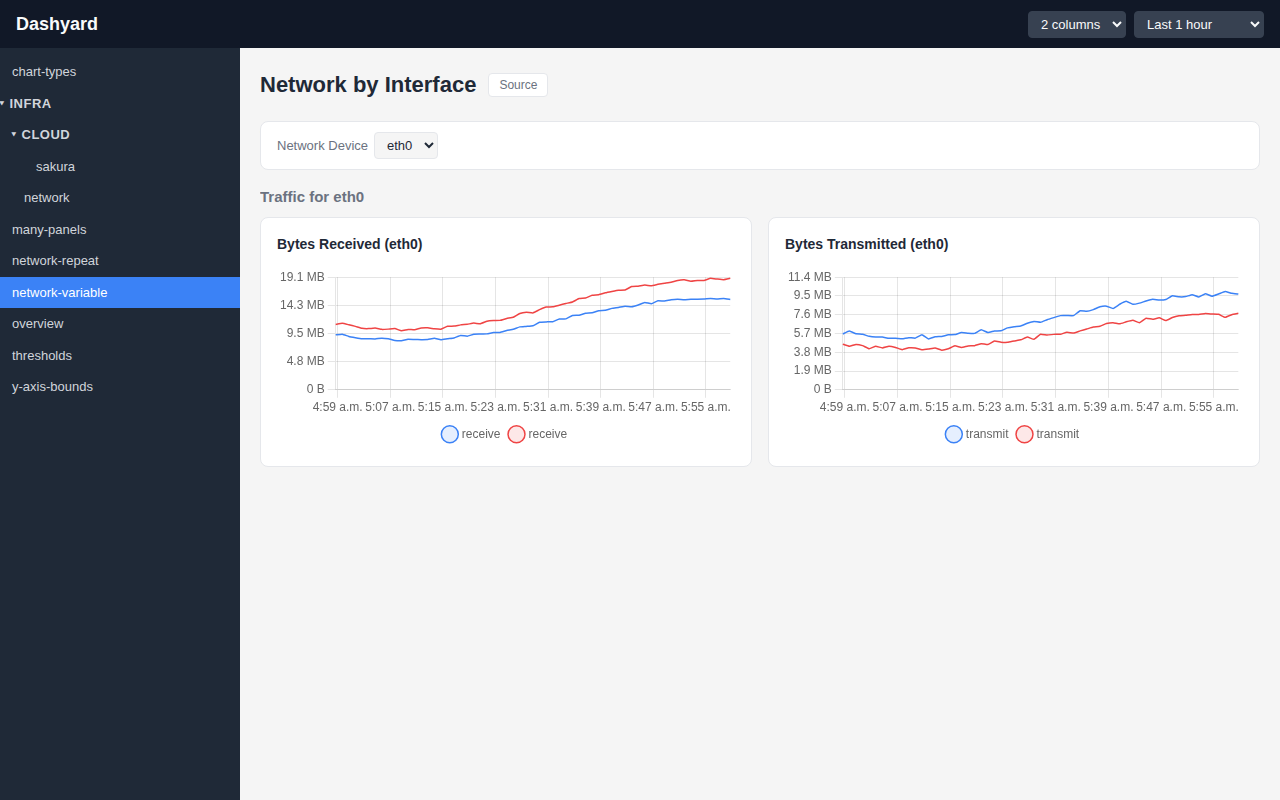
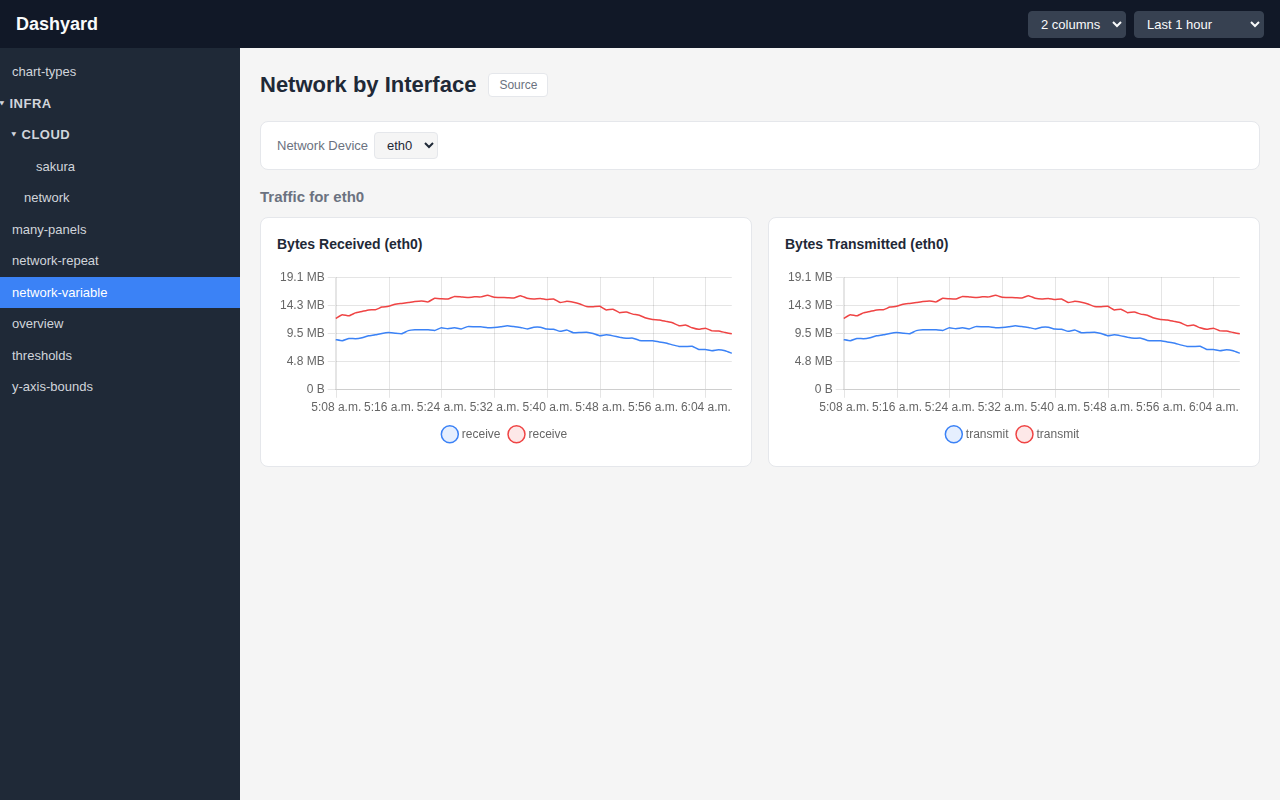
Make dummyprom output deterministic for stable screenshots
Replace math/rand with a pure hash-based noise function (splitmix64)
so that identical query + time range always produces the same data.
Use fixed base values instead of random ones for per-series params,
and compute relative time offsets in generateTimeSeries so the data
shape is independent of wall-clock time.

Update take-screenshots.ts to navigate via absolute time URLs
(?from=2025-01-01T00:00:00Z&to=2025-01-01T01:00:00Z) instead of
sidebar clicks with relative ranges, making axis labels and data
identical across runs.

Updated screenshots reflect the new deterministic output.

diff --git a/frontend/take-screenshots.ts b/frontend/take-screenshots.ts
@@ -12,6 +12,18 @@ const ROOT_DIR = path.resolve(__dirname, "..");
 const BASE_URL = process.env.BASE_URL || "http://localhost:5173/";
 const OUTPUT_DIR = process.env.OUTPUT_DIR || ROOT_DIR;
 
+// Fixed absolute time window for deterministic screenshots.
+// Combined with the deterministic dummyprom noise function, this ensures
+// identical chart data and axis labels across runs.
+const TIME_FROM = "2025-01-01T00:00:00Z";
+const TIME_TO = "2025-01-01T01:00:00Z";
+const TIME_QS = `from=${encodeURIComponent(TIME_FROM)}&to=${encodeURIComponent(TIME_TO)}`;
+
+function dashboardUrl(dashPath: string): string {
+  const base = BASE_URL.replace(/\/$/, "");
+  return `${base}/d/${dashPath}?${TIME_QS}`;
+}
+
 async function main() {
   fs.mkdirSync(path.join(OUTPUT_DIR, "docs"), { recursive: true });
 
@@ -45,12 +57,9 @@ async function main() {
       resp.ok(),
     { timeout: 10000 }
   );
-  await page.reload();
-  await page.waitForSelector(".sidebar", { timeout: 15000 });
 
-  // Navigate to overview dashboard
-  await page.locator(".sidebar-item", { hasText: "overview" }).click();
-  // Wait for graphs to render
+  // Navigate to overview dashboard with absolute time range
+  await page.goto(dashboardUrl("overview"));
   await page.waitForSelector(".graph-panel canvas", { timeout: 15000 });
   // Give Chart.js a moment to finish animations
   await page.waitForTimeout(2000);
@@ -70,73 +79,51 @@ async function main() {
   console.log("Saved: screenshot-dashboard.png");
 
   // Navigate to a dashboard with variables (network-variable)
-  const varItem = page.locator(".sidebar-item", {
-    hasText: "network-variable",
+  await page.goto(dashboardUrl("network-variable"));
+  await page.waitForSelector(".graph-panel canvas", { timeout: 15000 });
+  await page.waitForTimeout(2000);
+  await page.screenshot({
+    path: path.join(OUTPUT_DIR, "docs", "screenshot-variables.png"),
+    fullPage: false,
   });
-  if ((await varItem.count()) > 0) {
-    await varItem.click();
-    await page.waitForSelector(".graph-panel canvas", { timeout: 15000 });
-    await page.waitForTimeout(2000);
-    await page.screenshot({
-      path: path.join(OUTPUT_DIR, "docs", "screenshot-variables.png"),
-      fullPage: false,
-    });
-    console.log("Saved: screenshot-variables.png");
-  }
+  console.log("Saved: screenshot-variables.png");
 
   // Navigate to a dashboard with repeat rows (network-repeat)
-  const repeatItem = page.locator(".sidebar-item", {
-    hasText: "network-repeat",
+  await page.goto(dashboardUrl("network-repeat"));
+  await page.waitForSelector(".graph-panel canvas", { timeout: 15000 });
+  await page.waitForTimeout(2000);
+  await page.screenshot({
+    path: path.join(OUTPUT_DIR, "docs", "screenshot-repeat.png"),
+    fullPage: true,
   });
-  if ((await repeatItem.count()) > 0) {
-    await repeatItem.click();
-    await page.waitForSelector(".graph-panel canvas", { timeout: 15000 });
-    await page.waitForTimeout(2000);
-    await page.screenshot({
-      path: path.join(OUTPUT_DIR, "docs", "screenshot-repeat.png"),
-      fullPage: true,
-    });
-    console.log("Saved: screenshot-repeat.png");
-  }
+  console.log("Saved: screenshot-repeat.png");
 
   // Navigate to chart-types dashboard
-  const chartItem = page.locator(".sidebar-item", {
-    hasText: "chart-types",
+  await page.goto(dashboardUrl("chart-types"));
+  await page.waitForSelector(".panel", { timeout: 15000 });
+  await page.waitForTimeout(2000);
+  await page.screenshot({
+    path: path.join(OUTPUT_DIR, "docs", "screenshot-chart-types.png"),
+    fullPage: true,
   });
-  if ((await chartItem.count()) > 0) {
-    await chartItem.click();
-    await page.waitForSelector(".panel", { timeout: 15000 });
-    await page.waitForTimeout(2000);
-    await page.screenshot({
-      path: path.join(OUTPUT_DIR, "docs", "screenshot-chart-types.png"),
-      fullPage: true,
-    });
-    console.log("Saved: screenshot-chart-types.png");
-  }
+  console.log("Saved: screenshot-chart-types.png");
 
   // Navigate to thresholds dashboard using a fresh page so Chart.js
   // annotation plugin initialises cleanly (accumulated chart instances from
   // earlier dashboards can interfere with annotation rendering).
   {
     const freshPage = await context.newPage();
-    await freshPage.goto(BASE_URL);
-    await freshPage.waitForSelector(".sidebar", { timeout: 15000 });
-    const thresholdsItem = freshPage.locator(".sidebar-item", {
-      hasText: "thresholds",
+    await freshPage.goto(dashboardUrl("thresholds"));
+    await freshPage.waitForSelector(".graph-panel canvas", {
+      timeout: 15000,
     });
-    if ((await thresholdsItem.count()) > 0) {
-      await thresholdsItem.click();
-      await freshPage.waitForSelector(".graph-panel canvas", {
-        timeout: 15000,
-      });
-      // Annotation plugin needs extra time to render after async data loads
-      await freshPage.waitForTimeout(10000);
-      await freshPage.screenshot({
-        path: path.join(OUTPUT_DIR, "docs", "screenshot-thresholds.png"),
-        fullPage: true,
-      });
-      console.log("Saved: screenshot-thresholds.png");
-    }
+    // Annotation plugin needs extra time to render after async data loads
+    await freshPage.waitForTimeout(10000);
+    await freshPage.screenshot({
+      path: path.join(OUTPUT_DIR, "docs", "screenshot-thresholds.png"),
+      fullPage: true,
+    });
+    console.log("Saved: screenshot-thresholds.png");
     await freshPage.close();
   }
 

diff --git a/cmd/dummyprom/main.go b/cmd/dummyprom/main.go
@@ -8,7 +8,6 @@ import (
 	"fmt"
 	"log/slog"
 	"math"
-	"math/rand"
 	"net/http"
 	"os"
 	"strconv"
@@ -112,15 +111,32 @@ func generateData(query string, start, end, step float64) []promResult {
 	}
 }
 
+// noise returns a deterministic pseudo-random value in [0,1) derived from the
+// timestamp t and an optional seed. Using a pure function of t means the same
+// query with the same time range always produces identical data, which makes
+// screenshots stable and easier to review.
+func noise(t float64, seed uint64) float64 {
+	// Mix timestamp bits with the seed using a simple hash (splitmix64-style).
+	x := uint64(t*1000) + seed
+	x ^= x >> 30
+	x *= 0xbf58476d1ce4e5b9
+	x ^= x >> 27
+	x *= 0x94d049bb133111eb
+	x ^= x >> 31
+	return float64(x>>11) / float64(1<<53) // [0, 1)
+}
+
 func generateCPUUtilization(start, end, step float64) []promResult {
 	cpus := []string{"cpu0", "cpu1", "cpu2", "cpu3"}
+	baseVals := []float64{20.0, 25.0, 30.0, 18.0}
 	var results []promResult
-	for _, cpu := range cpus {
-		baseVal := 15.0 + rand.Float64()*20
+	for i, cpu := range cpus {
+		seed := uint64(i)
+		base := baseVals[i]
 		values := generateTimeSeries(start, end, step, func(t float64) float64 {
 			// Simulate CPU with some periodic pattern + noise
 			return math.Max(0, math.Min(100,
-				baseVal+15*math.Sin(t/600)+rand.Float64()*10-5))
+				base+15*math.Sin(t/600)+noise(t, seed)*10-5))
 		})
 		results = append(results, promResult{
 			Metric: map[string]string{
@@ -135,7 +151,7 @@ func generateCPUUtilization(start, end, step float64) []promResult {
 
 func generateLoadAverage(start, end, step float64) []promResult {
 	values := generateTimeSeries(start, end, step, func(t float64) float64 {
-		return math.Max(0, 1.5+0.8*math.Sin(t/1200)+rand.Float64()*0.3)
+		return math.Max(0, 1.5+0.8*math.Sin(t/1200)+noise(t, 100)*0.3)
 	})
 	return []promResult{
 		{
@@ -150,7 +166,7 @@ func generateLoadAverage(start, end, step float64) []promResult {
 func generateMemoryUsage(start, end, step float64) []promResult {
 	baseBytes := 4.0 * 1024 * 1024 * 1024 // 4 GB base
 	values := generateTimeSeries(start, end, step, func(t float64) float64 {
-		return baseBytes + 512*1024*1024*math.Sin(t/1800) + rand.Float64()*100*1024*1024
+		return baseBytes + 512*1024*1024*math.Sin(t/1800) + noise(t, 200)*100*1024*1024
 	})
 	return []promResult{
 		{
@@ -165,11 +181,13 @@ func generateMemoryUsage(start, end, step float64) []promResult {
 
 func generateNetworkIO(start, end, step float64, direction string) []promResult {
 	devices := []string{"eth0", "eth1"}
+	baseRates := []float64{1024.0 * 1024 * 8, 1024.0 * 1024 * 12} // 8 MB/s, 12 MB/s
 	var results []promResult
-	for _, dev := range devices {
-		baseRate := 1024.0 * 1024 * (5 + rand.Float64()*10) // 5-15 MB/s
+	for i, dev := range devices {
+		baseRate := baseRates[i]
+		seed := uint64(300 + i)
 		values := generateTimeSeries(start, end, step, func(t float64) float64 {
-			return math.Max(0, baseRate+baseRate*0.3*math.Sin(t/900)+rand.Float64()*1024*512)
+			return math.Max(0, baseRate+baseRate*0.3*math.Sin(t/900)+noise(t, seed)*1024*512)
 		})
 		results = append(results, promResult{
 			Metric: map[string]string{
@@ -186,7 +204,7 @@ func generateNetworkIO(start, end, step float64, direction string) []promResult 
 func generateDiskIO(start, end, step float64, direction string) []promResult {
 	baseRate := 1024.0 * 1024 * 50 // 50 MB/s
 	values := generateTimeSeries(start, end, step, func(t float64) float64 {
-		return math.Max(0, baseRate+baseRate*0.4*math.Sin(t/600)+rand.Float64()*1024*1024*10)
+		return math.Max(0, baseRate+baseRate*0.4*math.Sin(t/600)+noise(t, 400)*1024*1024*10)
 	})
 	return []promResult{
 		{
@@ -202,7 +220,7 @@ func generateDiskIO(start, end, step float64, direction string) []promResult {
 
 func generateGeneric(query string, start, end, step float64) []promResult {
 	values := generateTimeSeries(start, end, step, func(t float64) float64 {
-		return math.Max(0, 50+30*math.Sin(t/600)+rand.Float64()*10)
+		return math.Max(0, 50+30*math.Sin(t/600)+noise(t, 500)*10)
 	})
 	return []promResult{
 		{
@@ -217,9 +235,11 @@ func generateGeneric(query string, start, end, step float64) []promResult {
 func generateTimeSeries(start, end, step float64, fn func(float64) float64) [][2]interface{} {
 	var values [][2]interface{}
 	for t := start; t <= end; t += step {
+		// Pass relative time (offset from start) so data shape is
+		// independent of when the query is made.
 		values = append(values, [2]interface{}{
 			t,
-			fmt.Sprintf("%.6f", fn(t)),
+			fmt.Sprintf("%.6f", fn(t-start)),
 		})
 	}
 	return values
